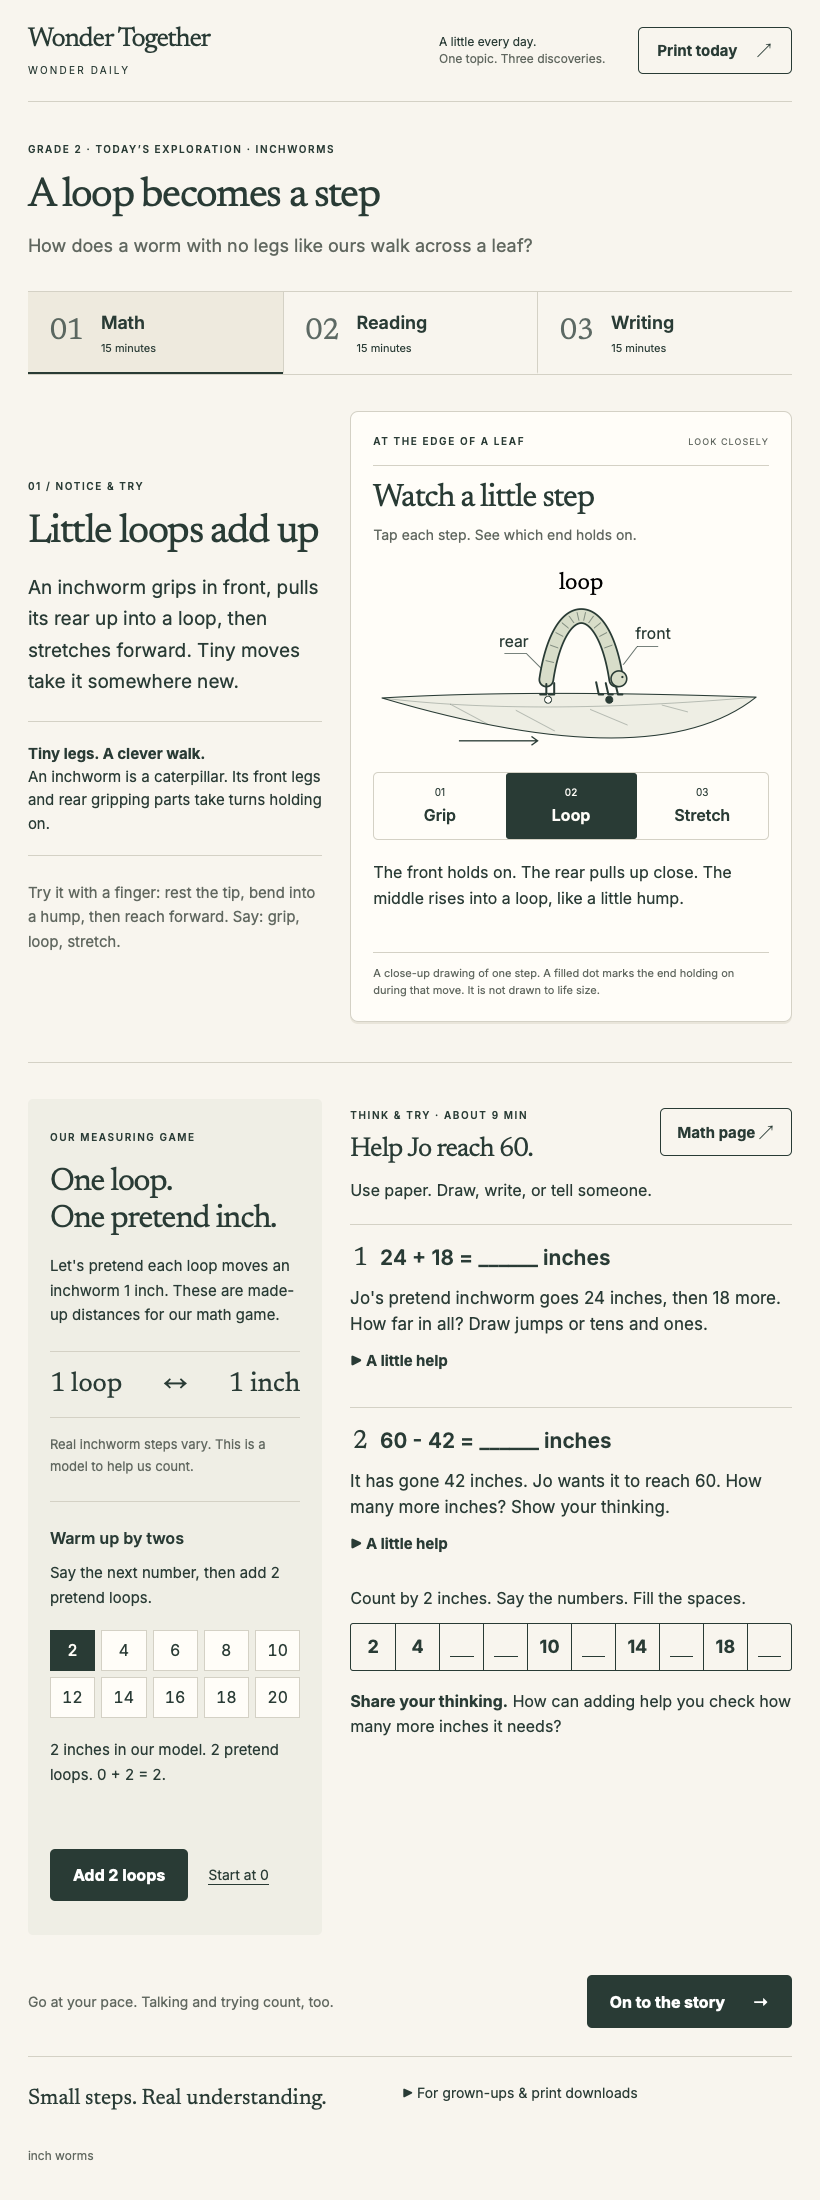
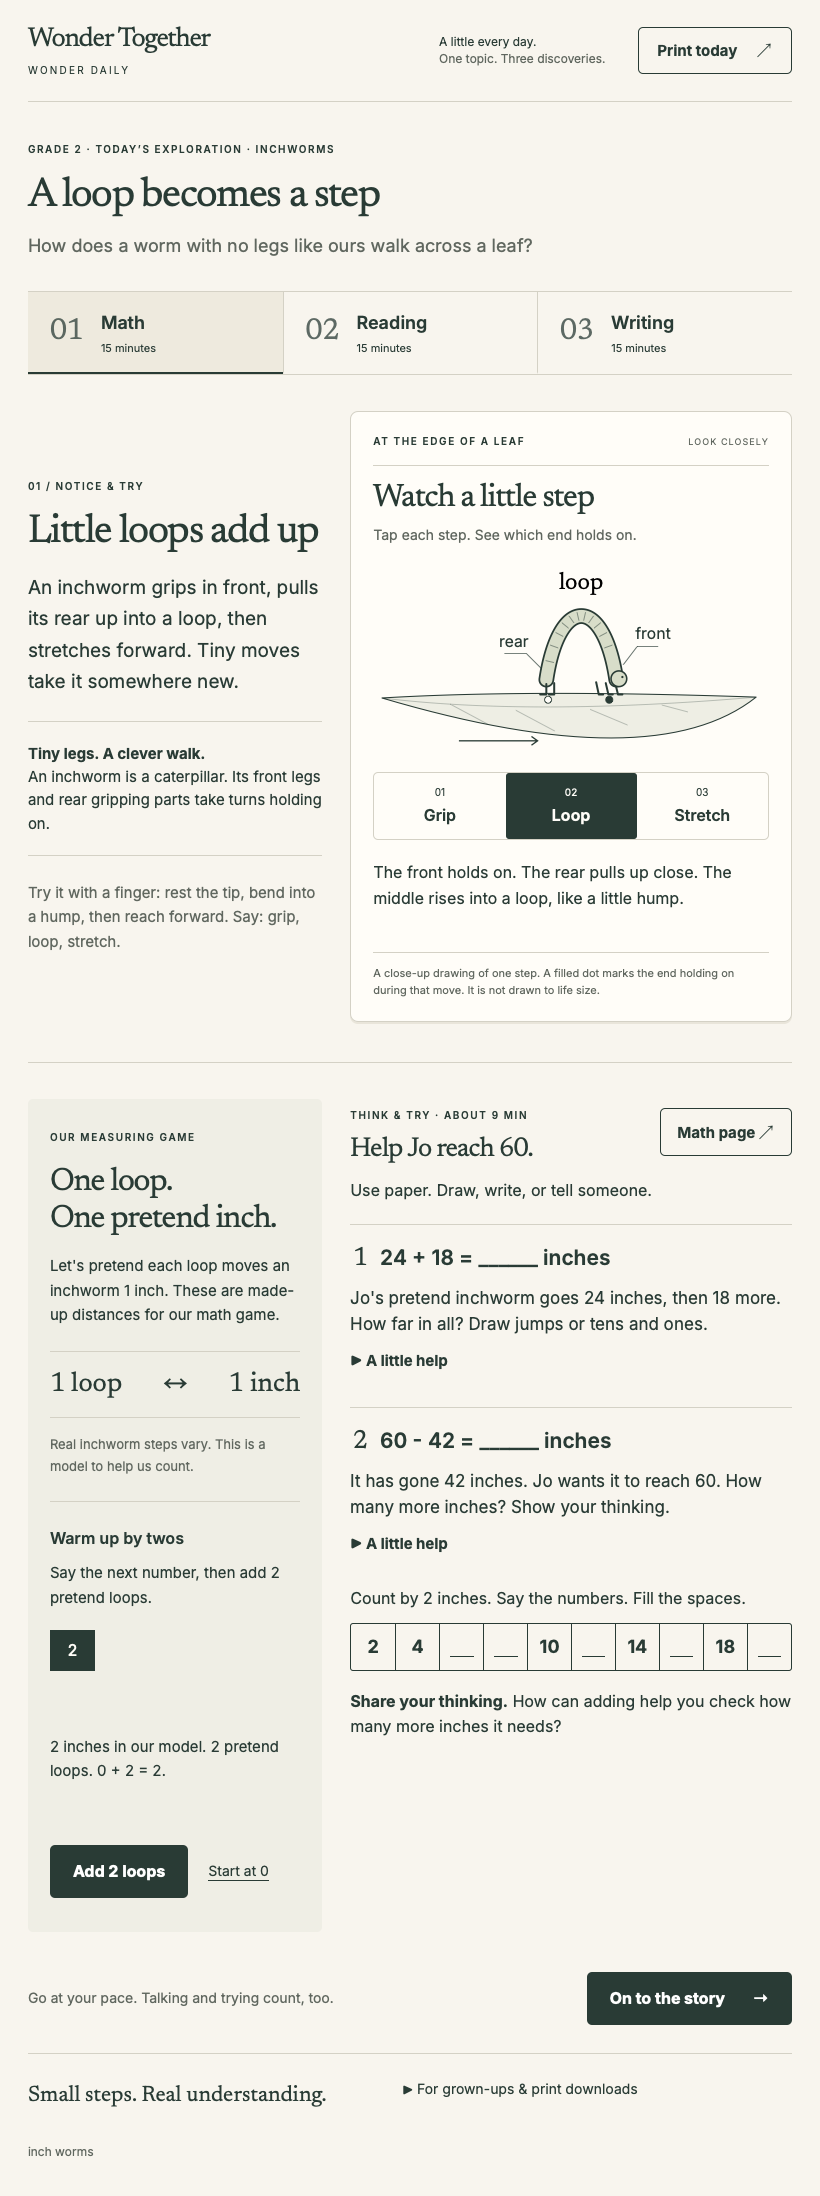
Progressive loop strip and gate inchworm assets to inchworms packs
Reveal count-by-twos cells only after each tap so future totals stay blank, matching engines turn-pairs. Copy and load inchworm CSS/JS/fonts only when pack.kind is inchworms; keep app.js as a classic script for other kinds.

diff --git a/src/app.js b/src/app.js
@@ -1,5 +1,3 @@
-import { wormPose } from "./inchworm.js";
-
 const $ = (selector) => document.querySelector(selector);
 const $$ = (selector) => [...document.querySelectorAll(selector)];
 const completed = new Set();
@@ -199,92 +197,7 @@ if (document.body.dataset.kind === "fair-sharing") {
     $("#turn-pairs").replaceChildren();
     updateTurns();
   });
-} else if (document.body.dataset.kind === "inchworms") {
-  const content = JSON.parse($("#lesson-content").textContent);
-  const reducedMotion = matchMedia("(prefers-reduced-motion: reduce)");
-  let frame;
-  let target = 0;
-  function drawWorm(stage) {
-    const { rear, front, body, segments } = wormPose(stage);
-    const svg = $(".inchworm-scene svg");
-    const set = (selector, attribute, value) =>
-      svg.querySelector(selector).setAttribute(attribute, value);
-    set(".worm-body", "d", body);
-    set(".worm-fill", "d", body);
-    set(".worm-segments", "d", segments);
-    set(".rear-legs", "d", `M${rear} 151v12h-7 m16-13v13h-6`);
-    set(
-      ".front-legs",
-      "d",
-      `M${front - 23} 149l3 14h5 m3-13 3 13h5 m3-12 3 12h5`,
-    );
-    set(".worm-head", "cx", front + 3);
-    set(".worm-eye", "cx", front + 7);
-    set(".rear-leader", "d", `M${rear - 5} 134l-18-18h-25`);
-    set(".front-leader", "d", `M${front + 8} 129l16-21h24`);
-    set(".rear-label", "x", rear - 54);
-    set(".front-label", "x", front + 22);
-    set(".rear-anchor", "cx", rear + 2);
-    set(".front-anchor", "cx", front - 8);
-  }
-  function settle() {
-    cancelAnimationFrame(frame);
-    drawWorm(target);
-  }
-  $$("[data-motion-step]").forEach((button) => {
-    button.addEventListener("click", () => {
-      cancelAnimationFrame(frame);
-      target = Number(button.dataset.motionStep);
-      $(".inchworm-scene").dataset.stage = target;
-      $(".inchworm-scene svg").dataset.pose = target;
-      $$("[data-motion-step]").forEach((b) =>
-        b.setAttribute("aria-pressed", String(b === button)),
-      );
-      $("#motion-caption").textContent = content.motion[target].text;
-      $("#inchworm-motion-title").textContent = content.motion[target].text;
-      // Every tap is independently understandable: Loop demonstrates 0 → 1;
-      // Stretch demonstrates 1 → 2. Grip resets without reversing the animal.
-      drawWorm(target === 0 || reducedMotion.matches ? target : target - 1);
-      if (target > 0 && !reducedMotion.matches) {
-        let start;
-        const tick = (time) => {
-          start ??= time;
-          const progress = Math.min((time - start) / 1000, 1);
-          drawWorm(target - 1 + (1 - Math.cos(progress * Math.PI)) / 2);
-          if (progress < 1 && !reducedMotion.matches && !$("#math").hidden)
-            frame = requestAnimationFrame(tick);
-          else settle();
-        };
-        frame = requestAnimationFrame(tick);
-      }
-    });
-  });
-  reducedMotion.addEventListener("change", settle);
-  $$("[data-subject], [data-finish]").forEach((button) =>
-    button.addEventListener("click", settle),
-  );
-  document.body.classList.add("inchworm-interactive");
-  let loops = 0;
-  function updateLoops() {
-    $$("[data-loop-pair]").forEach((pair, i) =>
-      pair.classList.toggle("counted", i < loops / 2),
-    );
-    $("#loop-feedback").textContent =
-      loops === 0
-        ? "0 inches. Each pair adds 2 inches."
-        : `${loops} inches in our model. ${loops} pretend loops.${loops === 20 ? " You reached 20 by twos! Start at 0 to try again." : ` ${loops - 2} + 2 = ${loops}.`}`;
-    $("#add-loops").disabled = loops === 20;
-  }
-  $("#add-loops").addEventListener("click", () => {
-    if (loops >= 20) return;
-    loops += 2;
-    updateLoops();
-  });
-  $("#reset-loops").addEventListener("click", () => {
-    loops = 0;
-    updateLoops();
-  });
-} else {
+} else if (document.body.dataset.kind !== "inchworms") {
   const updateCount = () => {
     const count = $$('.count-word[aria-pressed="true"]').length;
     $("#count-feedback").textContent =

diff --git a/src/inchworm.js b/src/inchworm.js
@@ -20,3 +20,98 @@ export function wormPose(stage) {
   }).join(" ");
   return { rear, front, body, segments };
 }
+
+// Browser-only: loaded as a module for inchworms packs.
+if (
+  typeof document !== "undefined" &&
+  document.body?.dataset?.kind === "inchworms"
+) {
+  const $ = (selector) => document.querySelector(selector);
+  const $$ = (selector) => [...document.querySelectorAll(selector)];
+  const content = JSON.parse($("#lesson-content").textContent);
+  const reducedMotion = matchMedia("(prefers-reduced-motion: reduce)");
+  let frame;
+  let target = 0;
+  function drawWorm(stage) {
+    const { rear, front, body, segments } = wormPose(stage);
+    const svg = $(".inchworm-scene svg");
+    const set = (selector, attribute, value) =>
+      svg.querySelector(selector).setAttribute(attribute, value);
+    set(".worm-body", "d", body);
+    set(".worm-fill", "d", body);
+    set(".worm-segments", "d", segments);
+    set(".rear-legs", "d", `M${rear} 151v12h-7 m16-13v13h-6`);
+    set(
+      ".front-legs",
+      "d",
+      `M${front - 23} 149l3 14h5 m3-13 3 13h5 m3-12 3 12h5`,
+    );
+    set(".worm-head", "cx", front + 3);
+    set(".worm-eye", "cx", front + 7);
+    set(".rear-leader", "d", `M${rear - 5} 134l-18-18h-25`);
+    set(".front-leader", "d", `M${front + 8} 129l16-21h24`);
+    set(".rear-label", "x", rear - 54);
+    set(".front-label", "x", front + 22);
+    set(".rear-anchor", "cx", rear + 2);
+    set(".front-anchor", "cx", front - 8);
+  }
+  function settle() {
+    cancelAnimationFrame(frame);
+    drawWorm(target);
+  }
+  $$("[data-motion-step]").forEach((button) => {
+    button.addEventListener("click", () => {
+      cancelAnimationFrame(frame);
+      target = Number(button.dataset.motionStep);
+      $(".inchworm-scene").dataset.stage = target;
+      $(".inchworm-scene svg").dataset.pose = target;
+      $$("[data-motion-step]").forEach((b) =>
+        b.setAttribute("aria-pressed", String(b === button)),
+      );
+      $("#motion-caption").textContent = content.motion[target].text;
+      $("#inchworm-motion-title").textContent = content.motion[target].text;
+      // Every tap is independently understandable: Loop demonstrates 0 → 1;
+      // Stretch demonstrates 1 → 2. Grip resets without reversing the animal.
+      drawWorm(target === 0 || reducedMotion.matches ? target : target - 1);
+      if (target > 0 && !reducedMotion.matches) {
+        let start;
+        const tick = (time) => {
+          start ??= time;
+          const progress = Math.min((time - start) / 1000, 1);
+          drawWorm(target - 1 + (1 - Math.cos(progress * Math.PI)) / 2);
+          if (progress < 1 && !reducedMotion.matches && !$("#math").hidden)
+            frame = requestAnimationFrame(tick);
+          else settle();
+        };
+        frame = requestAnimationFrame(tick);
+      }
+    });
+  });
+  reducedMotion.addEventListener("change", settle);
+  $$("[data-subject], [data-finish]").forEach((button) =>
+    button.addEventListener("click", settle),
+  );
+  document.body.classList.add("inchworm-interactive");
+  let loops = 0;
+  function updateLoops() {
+    $("#loop-feedback").textContent =
+      loops === 0
+        ? "0 inches. Each pair adds 2 inches."
+        : `${loops} inches in our model. ${loops} pretend loops.${loops === 20 ? " You reached 20 by twos! Start at 0 to try again." : ` ${loops - 2} + 2 = ${loops}.`}`;
+    $("#add-loops").disabled = loops === 20;
+  }
+  $("#add-loops").addEventListener("click", () => {
+    if (loops >= 20) return;
+    loops += 2;
+    const pair = document.createElement("span");
+    pair.className = "counted";
+    pair.textContent = String(loops);
+    $("#loop-pairs").append(pair);
+    updateLoops();
+  });
+  $("#reset-loops").addEventListener("click", () => {
+    loops = 0;
+    $("#loop-pairs").replaceChildren();
+    updateLoops();
+  });
+}

diff --git a/src/inchworms.css b/src/inchworms.css
@@ -329,20 +329,18 @@ body[data-kind="inchworms"] .engine-math-grid {
   display: grid;
   grid-template-columns: repeat(5, minmax(0, 1fr));
   gap: 6px;
+  min-height: 84px;
   margin: 20px 0;
 }
 .loop-pairs span {
-  border: 1px solid var(--line);
-  background: var(--stock);
+  border: 1px solid var(--ink);
+  background: var(--ink);
+  color: var(--stock);
   text-align: center;
   padding: 7px 0;
   font-size: 16px;
   font-variant-numeric: tabular-nums;
-}
-.loop-pairs .counted {
-  background: var(--ink);
-  color: var(--stock);
-  border-color: var(--ink);
+  align-self: start;
 }
 #loop-feedback {
   min-height: 6.6em;
